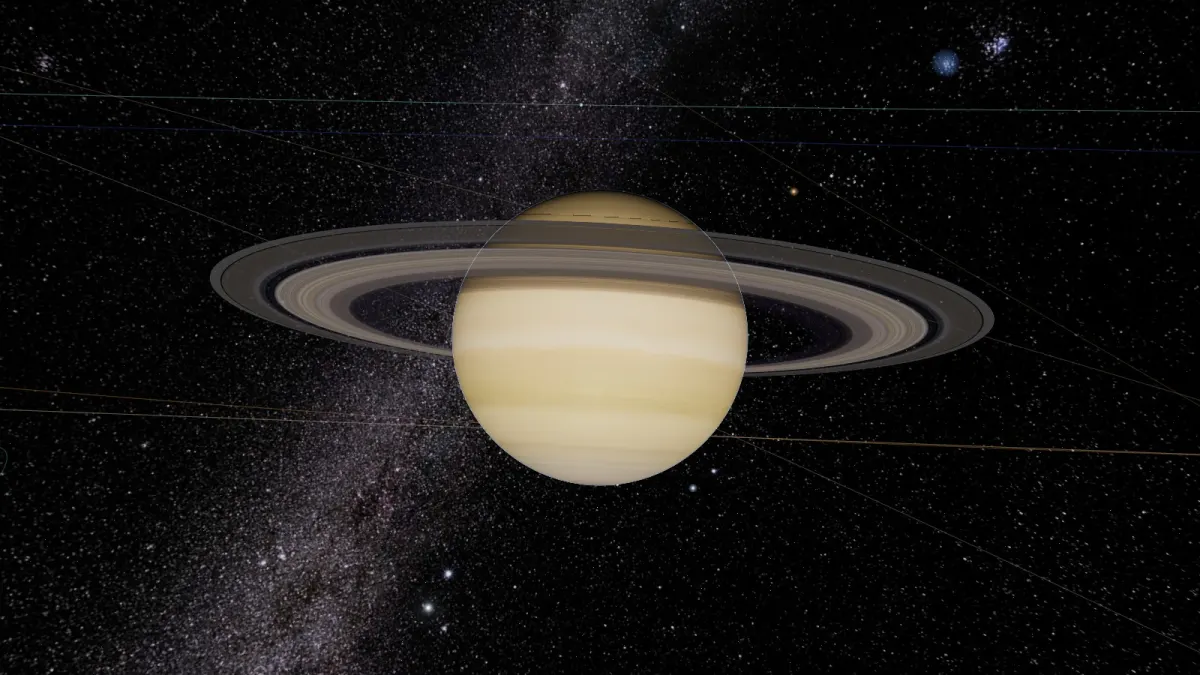
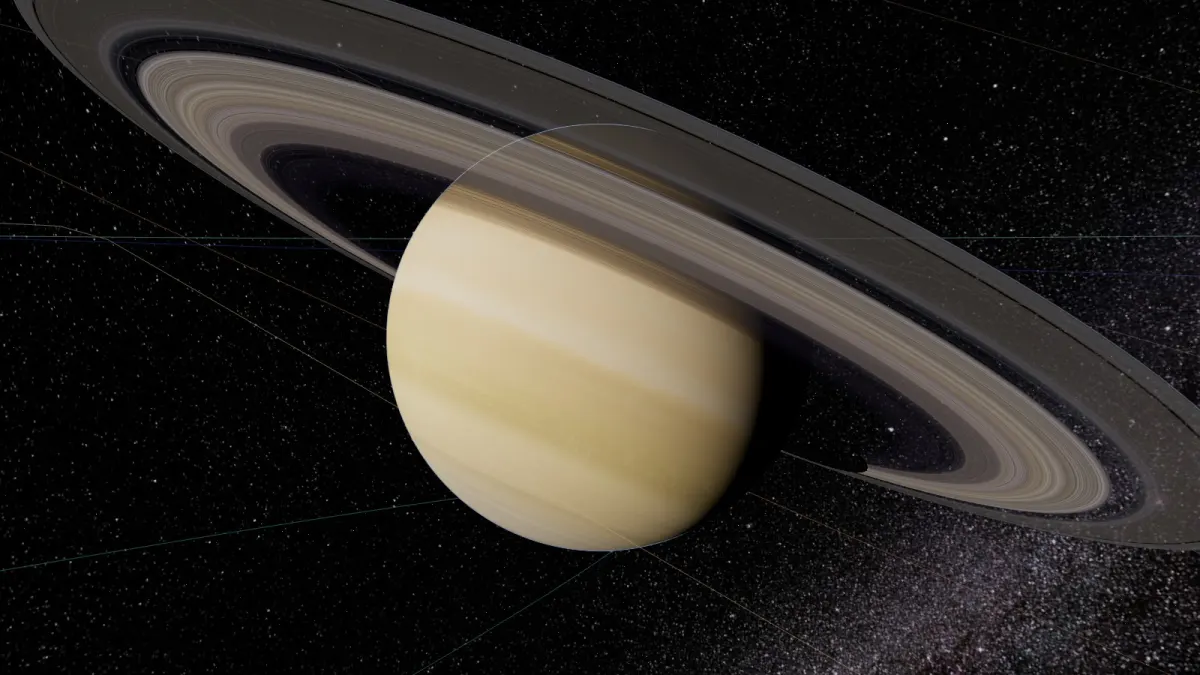
feat: 토이 프로젝트 스크린샷 — 태양계 인터페이스 컷·토성 각도·달에서 본 지구·이오의 목성, 하이퍼드라이브 뒤로

diff --git a/widgets/about/ui/about-body.tsx b/widgets/about/ui/about-body.tsx
@@ -29,20 +29,20 @@ function SectionHeading({
 }
 
 const galaxyShots = [
-  {
-    src: "/images/projects/galaxy-warp.webp",
-    alt: "투어 모드 우주선의 하이퍼드라이브",
-  },
-  { src: "/images/projects/galaxy-home.webp", alt: "태양계 전경과 은하수" },
+  { src: "/images/projects/galaxy-home.webp", alt: "태양계 궤도와 인터페이스" },
   { src: "/images/projects/galaxy-jupiter.webp", alt: "목성" },
   { src: "/images/projects/galaxy-saturn.webp", alt: "토성과 고리" },
   {
-    src: "/images/projects/galaxy-europa.webp",
-    alt: "유로파 얼음 지평선 위로 떠오른 목성",
+    src: "/images/projects/galaxy-moon-earth.webp",
+    alt: "달 남극에서 본 지구와 은하수",
   },
   {
-    src: "/images/projects/galaxy-callisto.webp",
-    alt: "칼리스토에서 본 은하수",
+    src: "/images/projects/galaxy-io-jupiter.webp",
+    alt: "이오의 유황 평원 위로 뜬 목성",
+  },
+  {
+    src: "/images/projects/galaxy-warp.webp",
+    alt: "투어 모드 우주선의 하이퍼드라이브",
   },
   { src: "/images/projects/galaxy-giza.webp", alt: "스핑크스와 기자 피라미드" },
   {
